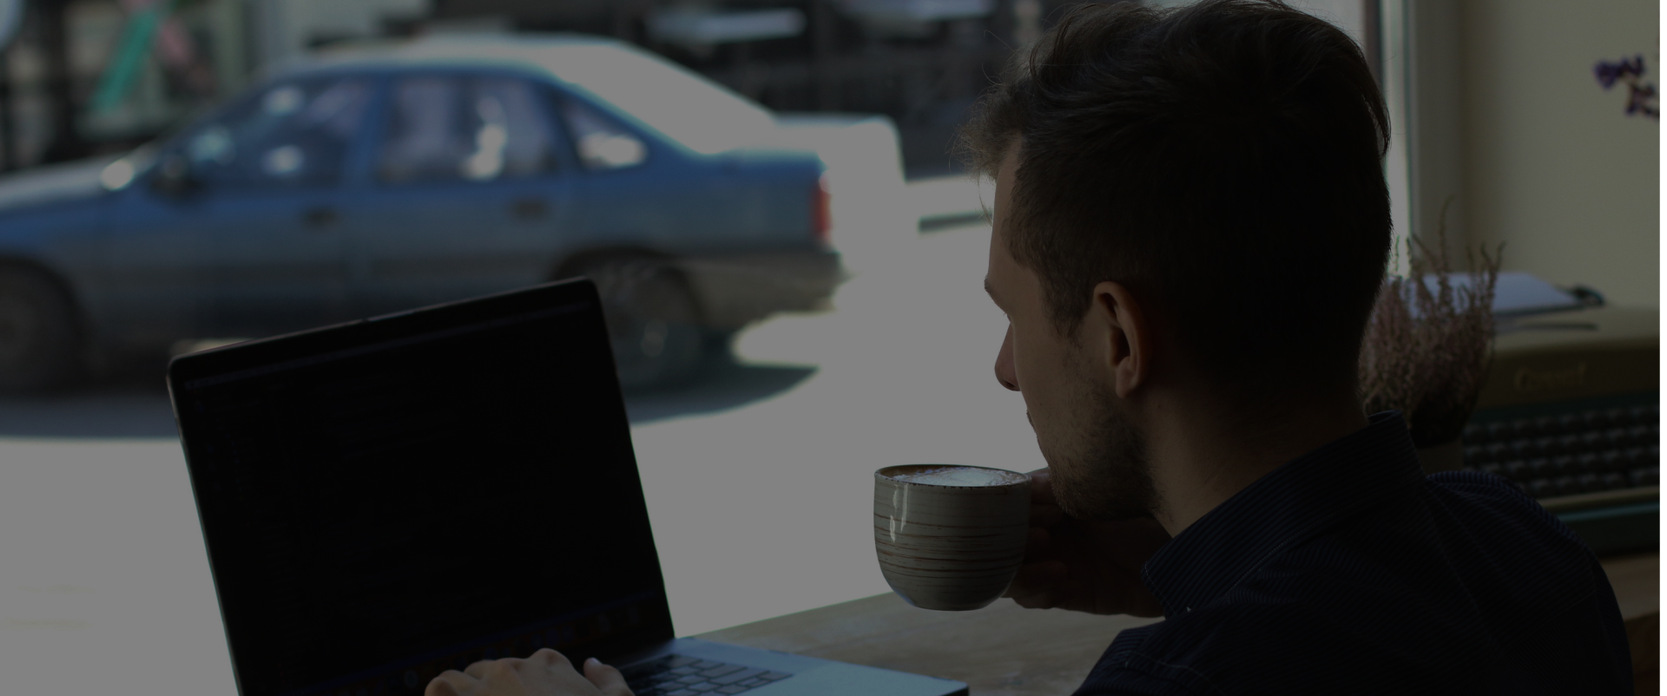
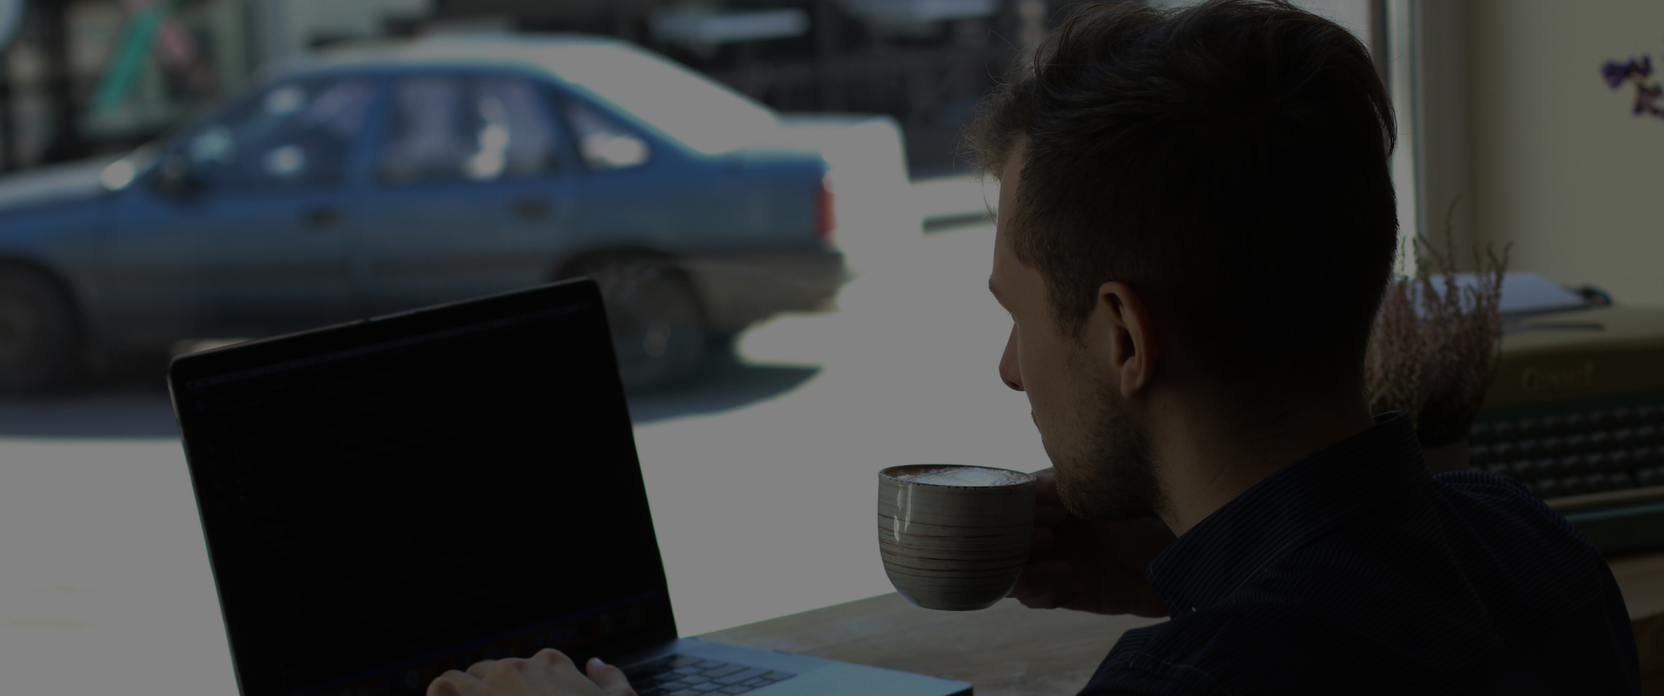
ended up this day with two section

diff --git a/dist/css/style.min.css b/dist/css/style.min.css
@@ -4,4 +4,4 @@
  * Copyright 2011-2019 Twitter, Inc.
  * Licensed under MIT (https://github.com/twbs/bootstrap/blob/master/LICENSE)
  * Forked from Normalize.css, licensed MIT (https://github.com/necolas/normalize.css/blob/master/LICENSE.md)
- */*,::after,::before{box-sizing:border-box}html{font-family:sans-serif;line-height:1.15;-webkit-text-size-adjust:100%;-webkit-tap-highlight-color:rgba(0,0,0,0)}article,aside,figcaption,figure,footer,header,hgroup,main,nav,section{display:block}body{margin:0;font-family:-apple-system,BlinkMacSystemFont,"Segoe UI",Roboto,"Helvetica Neue",Arial,"Noto Sans",sans-serif,"Apple Color Emoji","Segoe UI Emoji","Segoe UI Symbol","Noto Color Emoji";font-size:1rem;font-weight:400;line-height:1.5;color:#212529;text-align:left;background-color:#fff}[tabindex="-1"]:focus{outline:0!important}hr{box-sizing:content-box;height:0;overflow:visible}h1,h2,h3,h4,h5,h6{margin-top:0;margin-bottom:.5rem}p{margin-top:0;margin-bottom:1rem}abbr[data-original-title],abbr[title]{text-decoration:underline;-webkit-text-decoration:underline dotted;text-decoration:underline dotted;cursor:help;border-bottom:0;-webkit-text-decoration-skip-ink:none;text-decoration-skip-ink:none}address{margin-bottom:1rem;font-style:normal;line-height:inherit}dl,ol,ul{margin-top:0;margin-bottom:1rem}ol ol,ol ul,ul ol,ul ul{margin-bottom:0}dt{font-weight:700}dd{margin-bottom:.5rem;margin-left:0}blockquote{margin:0 0 1rem}b,strong{font-weight:bolder}small{font-size:80%}sub,sup{position:relative;font-size:75%;line-height:0;vertical-align:baseline}sub{bottom:-.25em}sup{top:-.5em}a{color:#007bff;text-decoration:none;background-color:rgba(0,0,0,0)}a:hover{color:#0056b3;text-decoration:underline}a:not([href]):not([tabindex]){color:inherit;text-decoration:none}a:not([href]):not([tabindex]):focus,a:not([href]):not([tabindex]):hover{color:inherit;text-decoration:none}a:not([href]):not([tabindex]):focus{outline:0}code,kbd,pre,samp{font-family:SFMono-Regular,Menlo,Monaco,Consolas,"Liberation Mono","Courier New",monospace;font-size:1em}pre{margin-top:0;margin-bottom:1rem;overflow:auto}figure{margin:0 0 1rem}img{vertical-align:middle;border-style:none}svg{overflow:hidden;vertical-align:middle}table{border-collapse:collapse}caption{padding-top:.75rem;padding-bottom:.75rem;color:#6c757d;text-align:left;caption-side:bottom}th{text-align:inherit}label{display:inline-block;margin-bottom:.5rem}button{border-radius:0}button:focus{outline:1px dotted;outline:5px auto -webkit-focus-ring-color}button,input,optgroup,select,textarea{margin:0;font-family:inherit;font-size:inherit;line-height:inherit}button,input{overflow:visible}button,select{text-transform:none}select{word-wrap:normal}[type=button],[type=reset],[type=submit],button{-webkit-appearance:button}[type=button]:not(:disabled),[type=reset]:not(:disabled),[type=submit]:not(:disabled),button:not(:disabled){cursor:pointer}[type=button]::-moz-focus-inner,[type=reset]::-moz-focus-inner,[type=submit]::-moz-focus-inner,button::-moz-focus-inner{padding:0;border-style:none}input[type=checkbox],input[type=radio]{box-sizing:border-box;padding:0}input[type=date],input[type=datetime-local],input[type=month],input[type=time]{-webkit-appearance:listbox}textarea{overflow:auto;resize:vertical}fieldset{min-width:0;padding:0;margin:0;border:0}legend{display:block;width:100%;max-width:100%;padding:0;margin-bottom:.5rem;font-size:1.5rem;line-height:inherit;color:inherit;white-space:normal}progress{vertical-align:baseline}[type=number]::-webkit-inner-spin-button,[type=number]::-webkit-outer-spin-button{height:auto}[type=search]{outline-offset:-2px;-webkit-appearance:none}[type=search]::-webkit-search-decoration{-webkit-appearance:none}::-webkit-file-upload-button{font:inherit;-webkit-appearance:button}output{display:inline-block}summary{display:list-item;cursor:pointer}template{display:none}[hidden]{display:none!important}@font-face{font-family:Poppins;src:url(../fonts/Poppins-Bold.woff2) format("woff2"),url(../fonts/Poppins-Bold.woff) format("woff");font-weight:700;font-style:normal;font-display:swap}@font-face{font-family:Poppins;src:url(../fonts/Poppins-Medium.woff2) format("woff2"),url(../fonts/Poppins-Medium.woff) format("woff");font-weight:500;font-style:normal;font-display:swap}@font-face{font-family:Poppins;src:url(../fonts/Poppins-Light.woff2) format("woff2"),url(../fonts/Poppins-Light.woff) format("woff");font-weight:300;font-style:normal;font-display:swap}@font-face{font-family:Poppins;src:url(../fonts/Poppins-Thin.woff2) format("woff2"),url(../fonts/Poppins-Thin.woff) format("woff");font-weight:100;font-style:normal;font-display:swap}@font-face{font-family:Poppins;src:url(../fonts/Poppins-Regular.woff2) format("woff2"),url(../fonts/Poppins-Regular.woff) format("woff");font-weight:400;font-style:normal;font-display:swap}.container{max-width:1140px;width:100%;margin:0 auto}.hero{color:#fff;min-height:50rem;padding-top:10rem;background:url(../img/main_bg.jpg) center center/cover no-repeat}.hero--wrapper{max-width:770px;width:55%;padding-left:.45em}.hero--title{letter-spacing:.12rem}.hero--descr{width:50%;margin:1.5em 0 2.5em}.hero--btns{max-width:310px;width:100%;display:flex;flex-wrap:wrap;gap:1.2rem;align-items:center;margin-top:1.4em;letter-spacing:.08rem}.hero--link{opacity:.45;font-size:.9rem;transition:all .5s ease}.hero--link:hover{opacity:.8}.title{line-height:3rem}.title-fz32{font-size:2rem}.title-fz24{font-size:1.5rem}.title-fz48{font-size:3rem}.btn{display:block;max-width:135px;width:100%;height:45px;padding:.255em;font-weight:700;font-size:.865rem;text-align:center;border:none;text-decoration:none;text-transform:uppercase;color:#000;background-color:#ffa501;transition:all 150ms ease-in-out}.btn:hover{transform:scale(1.025);letter-spacing:.05rem;box-shadow:4px -4px 0 rgba(255,255,255,.25)}.btn:focus{outline:0}*,a,a::after,a::before,a:focus,a:hover,h1,h2,h3,p{margin:0;padding:0;box-sizing:border-box;font-family:Poppins;text-decoration:none;color:inherit}
+ */*,::after,::before{box-sizing:border-box}html{font-family:sans-serif;line-height:1.15;-webkit-text-size-adjust:100%;-webkit-tap-highlight-color:rgba(0,0,0,0)}article,aside,figcaption,figure,footer,header,hgroup,main,nav,section{display:block}body{margin:0;font-family:-apple-system,BlinkMacSystemFont,"Segoe UI",Roboto,"Helvetica Neue",Arial,"Noto Sans",sans-serif,"Apple Color Emoji","Segoe UI Emoji","Segoe UI Symbol","Noto Color Emoji";font-size:1rem;font-weight:400;line-height:1.5;color:#212529;text-align:left;background-color:#fff}[tabindex="-1"]:focus{outline:0!important}hr{box-sizing:content-box;height:0;overflow:visible}h1,h2,h3,h4,h5,h6{margin-top:0;margin-bottom:.5rem}p{margin-top:0;margin-bottom:1rem}abbr[data-original-title],abbr[title]{text-decoration:underline;-webkit-text-decoration:underline dotted;text-decoration:underline dotted;cursor:help;border-bottom:0;-webkit-text-decoration-skip-ink:none;text-decoration-skip-ink:none}address{margin-bottom:1rem;font-style:normal;line-height:inherit}dl,ol,ul{margin-top:0;margin-bottom:1rem}ol ol,ol ul,ul ol,ul ul{margin-bottom:0}dt{font-weight:700}dd{margin-bottom:.5rem;margin-left:0}blockquote{margin:0 0 1rem}b,strong{font-weight:bolder}small{font-size:80%}sub,sup{position:relative;font-size:75%;line-height:0;vertical-align:baseline}sub{bottom:-.25em}sup{top:-.5em}a{color:#007bff;text-decoration:none;background-color:rgba(0,0,0,0)}a:hover{color:#0056b3;text-decoration:underline}a:not([href]):not([tabindex]){color:inherit;text-decoration:none}a:not([href]):not([tabindex]):focus,a:not([href]):not([tabindex]):hover{color:inherit;text-decoration:none}a:not([href]):not([tabindex]):focus{outline:0}code,kbd,pre,samp{font-family:SFMono-Regular,Menlo,Monaco,Consolas,"Liberation Mono","Courier New",monospace;font-size:1em}pre{margin-top:0;margin-bottom:1rem;overflow:auto}figure{margin:0 0 1rem}img{vertical-align:middle;border-style:none}svg{overflow:hidden;vertical-align:middle}table{border-collapse:collapse}caption{padding-top:.75rem;padding-bottom:.75rem;color:#6c757d;text-align:left;caption-side:bottom}th{text-align:inherit}label{display:inline-block;margin-bottom:.5rem}button{border-radius:0}button:focus{outline:1px dotted;outline:5px auto -webkit-focus-ring-color}button,input,optgroup,select,textarea{margin:0;font-family:inherit;font-size:inherit;line-height:inherit}button,input{overflow:visible}button,select{text-transform:none}select{word-wrap:normal}[type=button],[type=reset],[type=submit],button{-webkit-appearance:button}[type=button]:not(:disabled),[type=reset]:not(:disabled),[type=submit]:not(:disabled),button:not(:disabled){cursor:pointer}[type=button]::-moz-focus-inner,[type=reset]::-moz-focus-inner,[type=submit]::-moz-focus-inner,button::-moz-focus-inner{padding:0;border-style:none}input[type=checkbox],input[type=radio]{box-sizing:border-box;padding:0}input[type=date],input[type=datetime-local],input[type=month],input[type=time]{-webkit-appearance:listbox}textarea{overflow:auto;resize:vertical}fieldset{min-width:0;padding:0;margin:0;border:0}legend{display:block;width:100%;max-width:100%;padding:0;margin-bottom:.5rem;font-size:1.5rem;line-height:inherit;color:inherit;white-space:normal}progress{vertical-align:baseline}[type=number]::-webkit-inner-spin-button,[type=number]::-webkit-outer-spin-button{height:auto}[type=search]{outline-offset:-2px;-webkit-appearance:none}[type=search]::-webkit-search-decoration{-webkit-appearance:none}::-webkit-file-upload-button{font:inherit;-webkit-appearance:button}output{display:inline-block}summary{display:list-item;cursor:pointer}template{display:none}[hidden]{display:none!important}@font-face{font-family:Poppins;src:url(../fonts/Poppins-Bold.woff2) format("woff2"),url(../fonts/Poppins-Bold.woff) format("woff");font-weight:700;font-style:normal;font-display:swap}@font-face{font-family:Poppins;src:url(../fonts/Poppins-Medium.woff2) format("woff2"),url(../fonts/Poppins-Medium.woff) format("woff");font-weight:500;font-style:normal;font-display:swap}@font-face{font-family:Poppins;src:url(../fonts/Poppins-Light.woff2) format("woff2"),url(../fonts/Poppins-Light.woff) format("woff");font-weight:300;font-style:normal;font-display:swap}@font-face{font-family:Poppins;src:url(../fonts/Poppins-Thin.woff2) format("woff2"),url(../fonts/Poppins-Thin.woff) format("woff");font-weight:100;font-style:normal;font-display:swap}@font-face{font-family:Poppins;src:url(../fonts/Poppins-Regular.woff2) format("woff2"),url(../fonts/Poppins-Regular.woff) format("woff");font-weight:400;font-style:normal;font-display:swap}.flex{display:flex;justify-content:space-between;align-items:flex-start}.btn{display:block;max-width:135px;height:45px;padding:.255em 1em;font-weight:700;font-size:.87rem;line-height:.87rem;text-align:center;cursor:pointer;border:none;text-decoration:none;text-transform:uppercase;color:#000;background-color:#ffa501;transition:all 150ms ease-in-out}.btn:hover{transform:scale(1.025);letter-spacing:.03rem;box-shadow:4px -4px 0 rgba(255,255,255,.25)}.btn:focus{outline:0}.container{max-width:1140px;width:100%;margin:0 auto}.divider{width:4rem;height:.125rem;background-color:#ffa501;margin:.625rem 0}.divider-white{background-color:#fff}.title{line-height:3rem;letter-spacing:.08rem}.title-fz16{font-size:1rem;line-height:1rem}.title-fz24{font-size:1.5rem;line-height:1.5rem}.title-fz32{font-size:2rem;line-height:2rem}.title-fz48{font-size:3rem;line-height:3rem}.hero{position:relative;height:100vh;color:#fff;min-height:100vh;padding-top:14rem;background:url(../img/main_bg.jpg) fixed center/cover no-repeat}.hero--wrapper{max-width:770px;width:55%;padding-left:.45em}.hero--descr{width:50%;margin:1.5em 0 2.5em}.hero--btns{max-width:310px;width:100%;display:flex;flex-wrap:wrap;gap:1.2rem;align-items:center;margin-top:1.4em;letter-spacing:.08rem}.hero--link{opacity:.45;font-size:.9rem;transition:all .5s ease}.hero--link:hover{opacity:.8;transform:scale(1.125);letter-spacing:.1rem}.hero--title{margin:.25em 0;padding-left:.12em;position:relative;z-index:1}.hero--title::before{content:"";width:2rem;height:2rem;border-radius:50%;position:absolute;z-index:-1;background-color:#ffa501;width:4rem;height:4rem;left:0;top:-.55rem}.socials{padding-left:.5em;width:2rem;height:100%;max-height:18rem;bottom:2%;display:flex;position:fixed;align-items:center;flex-direction:column;gap:.8rem}.socials--label{color:#fff;-webkit-writing-mode:vertical-lr;-ms-writing-mode:tb-lr;writing-mode:vertical-lr;transform:rotate(180deg)}.socials--divider{margin:30px;transform:rotate(90deg)}.socials a:last-of-type{transform:rotate(-90deg)}.aboutme{height:720px;font-size:14px;line-height:21px;margin-top:6em}.aboutme--img{display:block;max-height:600px;margin-right:4.125em}.aboutme--title{margin-top:7px;padding-left:.5rem;position:relative}.aboutme--title:before{content:"";width:2rem;height:2rem;border-radius:50%;position:absolute;z-index:-1;background-color:#ffa501;top:-47%;left:0}.aboutme--subtitle-big{margin-top:1em}.aboutme--text{min-height:600px}.aboutme--descr{margin-top:.5em;font-size:12px;line-height:18px}.aboutme--descr-big{font-size:14px;line-height:21px}.aboutme--tech-wrapper{margin-top:2.5rem;align-items:flex-start;flex-wrap:wrap;gap:1rem}.aboutme--techblock{width:200px}.aboutme--icon{display:block;width:25px;margin:1.25em 1.25em 0 0;position:relative}.aboutme--icon:before{content:"";width:2rem;height:2rem;border-radius:50%;position:absolute;z-index:-1;background-color:#ffa501;top:0}*,a,a::after,a::before,a:focus,a:hover,h1,h2,h3,p{margin:0;padding:0;box-sizing:border-box;font-family:Poppins;text-decoration:none;color:inherit}img{width:100%;height:100%}

diff --git a/dist/index.html b/dist/index.html
@@ -1,1 +1,1 @@
-<!DOCTYPE html><html lang="ru"><head><meta charset="UTF-8"><meta name="viewport" content="width=device-width,initial-scale=1"><meta http-equiv="X-UA-Compatible" content="ie=edge"><title>Portfolio</title><meta name="title" content="Portfolio"><meta name="description" content="Explore my portfolio and contact me to discuss opportunities"><!-- Open Graph / Facebook --><meta property="og:type" content="website"><meta property="og:url" content="https://metatags.io/"><meta property="og:title" content="Portfolio"><meta property="og:description" content="Explore my portfolio and contact me to discuss opportunities"><meta property="og:image" content="https://metatags.io/assets/meta-tags-16a33a6a8531e519cc0936fbba0ad904e52d35f34a46c97a2c9f6f7dd7d336f2.png"><!-- Twitter --><meta property="twitter:card" content="summary_large_image"><meta property="twitter:url" content="https://metatags.io/"><meta property="twitter:title" content="Portfolio"><meta property="twitter:description" content="Explore my portfolio and contact me to discuss opportunities"><meta property="twitter:image" content="https://metatags.io/assets/meta-tags-16a33a6a8531e519cc0936fbba0ad904e52d35f34a46c97a2c9f6f7dd7d336f2.png"><!-- Favicon  --><link rel="apple-touch-icon" sizes="57x57" href="icons/favicon/apple-icon-57x57.png"><link rel="apple-touch-icon" sizes="60x60" href="icons/favicon/apple-icon-60x60.png"><link rel="apple-touch-icon" sizes="72x72" href="icons/favicon/apple-icon-72x72.png"><link rel="apple-touch-icon" sizes="76x76" href="icons/favicon/apple-icon-76x76.png"><link rel="apple-touch-icon" sizes="114x114" href="icons/favicon/apple-icon-114x114.png"><link rel="apple-touch-icon" sizes="120x120" href="icons/favicon/apple-icon-120x120.png"><link rel="apple-touch-icon" sizes="144x144" href="icons/favicon/apple-icon-144x144.png"><link rel="apple-touch-icon" sizes="152x152" href="icons/favicon/apple-icon-152x152.png"><link rel="apple-touch-icon" sizes="180x180" href="icons/favicon/apple-icon-180x180.png"><link rel="icon" type="image/png" sizes="192x192" href="icons/favicon/android-icon-192x192.png"><link rel="icon" type="image/png" sizes="32x32" href="icons/favicon/favicon-32x32.png"><link rel="icon" type="image/png" sizes="96x96" href="icons/favicon/favicon-96x96.png"><link rel="icon" type="image/png" sizes="16x16" href="icons/favicon/favicon-16x16.png"><link rel="manifest" href="/manifest.json"><meta name="msapplication-TileColor" content="#ffffff"><meta name="msapplication-TileImage" content="/ms-icon-144x144.png"><meta name="theme-color" content="#ffffff"><link rel="stylesheet" href="css/style.min.css"><script defer="defer" src="js/script.js"></script></head><body><section class="hero"><div class="container"><div class="hero--wrapper"><div class="hero--text"><h1 class="title hero--title title-fz48">Hi, My name is Anton</h1><h2 class="title hero--title title-fz32">and it is my portfolio</h2><p class="hero--descr">I'm excited to showcase my work and provide you with a way to reach out to me for any inquiries or opportunities. Browse my portfolio and let's connect.</p></div><div class="hero--btns"><button class="btn hero--btn"><a href="#" class="hero--btnLink">Work gallery</a></button> <a href="#" class="hero--link">about me</a></div></div></div></section></body></html>
+<!DOCTYPE html><html lang="ru"><head><meta charset="UTF-8"><meta name="viewport" content="width=device-width,initial-scale=1"><meta http-equiv="X-UA-Compatible" content="ie=edge"><title>Portfolio</title><meta name="title" content="Portfolio"><meta name="description" content="Explore my portfolio and contact me to discuss opportunities"><!-- Open Graph / Facebook --><meta property="og:type" content="website"><meta property="og:url" content="https://metatags.io/"><meta property="og:title" content="Portfolio"><meta property="og:description" content="Explore my portfolio and contact me to discuss opportunities"><meta property="og:image" content="https://metatags.io/assets/meta-tags-16a33a6a8531e519cc0936fbba0ad904e52d35f34a46c97a2c9f6f7dd7d336f2.png"><!-- Twitter --><meta property="twitter:card" content="summary_large_image"><meta property="twitter:url" content="https://metatags.io/"><meta property="twitter:title" content="Portfolio"><meta property="twitter:description" content="Explore my portfolio and contact me to discuss opportunities"><meta property="twitter:image" content="https://metatags.io/assets/meta-tags-16a33a6a8531e519cc0936fbba0ad904e52d35f34a46c97a2c9f6f7dd7d336f2.png"><!-- Favicon  --><link rel="apple-touch-icon" sizes="57x57" href="icons/favicon/apple-icon-57x57.png"><link rel="apple-touch-icon" sizes="60x60" href="icons/favicon/apple-icon-60x60.png"><link rel="apple-touch-icon" sizes="72x72" href="icons/favicon/apple-icon-72x72.png"><link rel="apple-touch-icon" sizes="76x76" href="icons/favicon/apple-icon-76x76.png"><link rel="apple-touch-icon" sizes="114x114" href="icons/favicon/apple-icon-114x114.png"><link rel="apple-touch-icon" sizes="120x120" href="icons/favicon/apple-icon-120x120.png"><link rel="apple-touch-icon" sizes="144x144" href="icons/favicon/apple-icon-144x144.png"><link rel="apple-touch-icon" sizes="152x152" href="icons/favicon/apple-icon-152x152.png"><link rel="apple-touch-icon" sizes="180x180" href="icons/favicon/apple-icon-180x180.png"><link rel="icon" type="image/png" sizes="192x192" href="icons/favicon/android-icon-192x192.png"><link rel="icon" type="image/png" sizes="32x32" href="icons/favicon/favicon-32x32.png"><link rel="icon" type="image/png" sizes="96x96" href="icons/favicon/favicon-96x96.png"><link rel="icon" type="image/png" sizes="16x16" href="icons/favicon/favicon-16x16.png"><link rel="manifest" href="/manifest.json"><meta name="msapplication-TileColor" content="#ffffff"><meta name="msapplication-TileImage" content="/ms-icon-144x144.png"><meta name="theme-color" content="#ffffff"><link rel="stylesheet" href="css/style.min.css"><script defer="defer" src="js/script.js"></script></head><body><section class="hero"><div class="container"><div class="hero--wrapper"><div class="hero--text"><h1 class="title hero--title title-fz48">Hi, my name is Anton</h1><h2 class="title hero--title-small title-fz32">and it is my portfolio</h2><p class="hero--descr">I'm excited to showcase my work and provide you with a way to reach out to me for any inquiries or opportunities. Browse my portfolio and let's connect.</p></div><div class="hero--btns"><button class="btn hero--btn"><a href="#" class="hero--btnLink">Work gallery</a></button> <a href="#" class="hero--link">about me</a></div></div></div></section><section class="aboutme"><div class="container flex"><img src="./img/main_photo.jpg" alt="my picture" class="aboutme--img"><div class="aboutme--text"><div class="aboutme--header"><h2 id="about" class="aboutme--title title-fz16">About me</h2><h3 class="aboutme--subtitle-big title-fz32">Short description</h3><div class="aboutme--divider divider"></div><div class="aboutme--descr-big">As a promising web development, I'm excited to learn and grow in this field. I'm passionate about creating beautiful websites and eager to learn new skills and technologies to achieve that goal. I'm determined each project, I'm gaining confidence, critical thinking, and problem-solving skills. I'm optimistic about the potential of this field for creativity, innovation, and personal development.</div></div><div class="aboutme--tech-wrapper flex"><div class="aboutme--tech flex"><img src="./icons/about_me/web_development.svg" alt="web development" class="aboutme--icon"><div class="aboutme--techblock"><h3 class="aboutme--subtitle">Web development</h3><p class="aboutme--descr">One of the most rewarding aspects of web development is the ability to see your work come to life. Every website is a tangible representation of skills and creativity.</p></div></div><div class="aboutme--tech flex"><img src="./icons/about_me/mobile_dev.svg" alt="mobile development" class="aboutme--icon"><div class="aboutme--techblock"><h3 class="aboutme--subtitle">Mobile development</h3><p class="aboutme--descr">Creating apps for smartphones and tablets that are visually appealing and user-friendly. Wich have the potential to reach a global audience.</p></div></div><div class="aboutme--tech flex"><img src="./icons/about_me/design.svg" alt="ui ux design" class="aboutme--icon"><div class="aboutme--techblock"><h3 class="aboutme--subtitle">UI/UX Design</h3><p class="aboutme--descr">UI/UX design is a crucial aspect of software and app development. It involves designing and creating the interface that users will interact.</p></div></div></div></div></div></section><aside class="socials"><a href="https://github.com/Odenari" target="_blank" class="socials--link"><img src="./icons/social/github.svg" alt="github" class="socials--icon"></a><a href="https://www.instagram.com/ordinary_grey_one/" target="_blank" class="socials--link"><img src="./icons/social/instagram.svg" alt="instagram" class="socials--icon"></a><a href="https://www.facebook.com/profile.php?id=100074051017916" target="_blank" class="socials--link"><img src="./icons/social/facebook.svg" alt="facebook" class="socials--icon"></a><a href="https://discordapp.com/users/380778704915136514" target="_blank" class="socials--link"><img src="./icons/social/discord-icon-svgrepo-com.svg" alt="discord" class="socials--icon"></a><div class="socials--divider divider divider-white"></div><div class="socials--label">Social</div></aside></body></html>

diff --git a/src/index.html b/src/index.html
@@ -53,8 +53,8 @@
         <div class="container">
             <div class=hero--wrapper>
                 <div class="hero--text">
-                    <h1 class="title hero--title title-fz48">Hi, My name is Anton</h1>
-                    <h2 class="title hero--title title-fz32">and it is my portfolio</h2>
+                    <h1 class="title hero--title title-fz48 ">Hi, my name is Anton</h1>
+                    <h2 class="title hero--title-small title-fz32">and it is my portfolio</h2>
                     <p class="hero--descr">
                         I'm excited to showcase my work and provide you with a
                         way to reach out to me for any inquiries or
@@ -69,6 +69,72 @@
             </div>
         </div>
     </section>
+
+    <section class="aboutme">
+        <div class="container flex">
+            <img src="./img/main_photo.jpg" alt="my picture" class="aboutme--img">
+            <div class="aboutme--text">
+                <div class="aboutme--header">
+                    <h2 id="about" class="aboutme--title title-fz16">About me</h2>
+                    <h3 class="aboutme--subtitle-big title-fz32">Short description</h3>
+                    <div class="aboutme--divider divider"></div>
+                    <div class="aboutme--descr-big">
+                        As a promising web development, I'm excited to learn and grow in this field. I'm passionate
+                        about creating beautiful websites and eager to learn new skills and technologies to achieve that
+                        goal. I'm determined each project, I'm gaining confidence, critical thinking, and
+                        problem-solving skills. I'm optimistic about the potential of this field for creativity,
+                        innovation, and personal development.
+                    </div>
+                </div>
+                <div class="aboutme--tech-wrapper flex">
+                    <div class="aboutme--tech flex">
+                        <img src="./icons/about_me/web_development.svg" alt="web development" class="aboutme--icon">
+                        <div class="aboutme--techblock">
+                            <h3 class="aboutme--subtitle">Web development</h3>
+                            <p class="aboutme--descr">
+                                One of the most rewarding aspects of web development is the ability to
+                                see
+                                your work come to life. Every website is a tangible representation of skills and
+                                creativity.
+                            </p>
+                        </div>
+                    </div>
+                    <div class="aboutme--tech flex">
+                        <img src="./icons/about_me/mobile_dev.svg" alt="mobile development" class="aboutme--icon">
+                        <div class="aboutme--techblock">
+                            <h3 class="aboutme--subtitle">Mobile development</h3>
+                            <p class="aboutme--descr">
+                                Creating apps for smartphones and tablets that are visually appealing
+                                and user-friendly. Wich have the potential to reach a global audience.
+                            </p>
+                        </div>
+                    </div>
+                    <div class="aboutme--tech flex">
+                        <img src="./icons/about_me/design.svg" alt="ui ux design" class="aboutme--icon">
+                        <div class="aboutme--techblock">
+                            <h3 class="aboutme--subtitle">UI/UX Design</h3>
+                            <p class="aboutme--descr">
+                                UI/UX design is a crucial aspect of software and app development. It involves designing
+                                and creating the interface that users will interact.
+                        </div>
+                    </div>
+                </div>
+            </div>
+        </div>
+    </section>
+
+    <aside class="socials">
+        <a href="https://github.com/Odenari" target="_blank" class="socials--link"><img src="./icons/social/github.svg"
+                alt="github" class="socials--icon"></a>
+        <a href="https://www.instagram.com/ordinary_grey_one/" target="_blank" class="socials--link"><img
+                src="./icons/social/instagram.svg" alt="instagram" class="socials--icon"></a>
+        <a href="https://www.facebook.com/profile.php?id=100074051017916" target="_blank" class="socials--link"><img
+                src="./icons/social/facebook.svg" alt="facebook" class="socials--icon"></a>
+        <a href="https://discordapp.com/users/380778704915136514" target="_blank" class="socials--link"><img
+                src="./icons/social/discord-icon-svgrepo-com.svg" alt="discord" class="socials--icon"></a>
+        <div class="socials--divider divider divider-white"></div>
+        <div class="socials--label">Social</div>
+    </aside>
 </body>
 
 </html>

diff --git a/src/sass/blocks/_aboutme.scss b/src/sass/blocks/_aboutme.scss
@@ -1,0 +1,58 @@
+.aboutme {
+    height: 720px;
+    // height: 100%;
+    font-size: 14px;
+    line-height: 21px;
+    margin-top: 6em;
+    &--img {
+        display: block;
+        max-height: 600px;
+        margin-right: 4.125em;
+    }
+    &--title {
+        margin-top: 7px;
+        padding-left: 0.5rem;
+        position: relative;
+
+        &:before {
+            @include before_circle;
+            top: -47%;
+            left: 0;
+        }
+    }
+    &--subtitle-big {
+        margin-top: 1em;
+    }
+    &--text {
+        min-height: 600px;
+    }
+    &--descr {
+        margin-top: 0.5em;
+        font-size: 12px;
+        line-height: 18px;
+        &-big {
+            font-size: 14px;
+            line-height: 21px;
+        }
+    }
+    &--tech-wrapper {
+        margin-top: 2.5rem;
+        align-items: flex-start;
+        flex-wrap: wrap;
+        gap: 1rem;
+    }
+
+    &--techblock {
+        width: 200px;
+    }
+    &--icon {
+        display: block;
+        width: 25px;
+        margin: 1.25em 1.25em 0 0;
+        position: relative;
+        &:before {
+            @include before_circle;
+            top: 0;
+        }
+    }
+}

diff --git a/src/sass/blocks/_hero.scss b/src/sass/blocks/_hero.scss
@@ -1,15 +1,14 @@
 .hero {
-    color: $text-white-color;
-    min-height: 50rem;
-    padding-top: 10rem;
-    background: url('../img/main_bg.jpg') center center/cover no-repeat;
+    position: relative;
+    height: 100vh;
+    color: $text-color-alt;
+    min-height: 100vh;
+    padding-top: 14rem;
+    background: url('../img/main_bg.jpg') fixed center/cover no-repeat;
     &--wrapper {
         max-width: 770px;
         width: 55%;
         padding-left: 0.45em;
-    }
-    &--title {
-        letter-spacing: 0.12rem;
     }
     &--descr {
         width: 50%;
@@ -31,6 +30,21 @@
         transition: all 0.5s ease;
         &:hover {
             opacity: 0.8;
+            transform: scale(1.125);
+            letter-spacing: 0.1rem;
+        }
+    }
+    &--title {
+        margin: 0.25em 0;
+        padding-left: 0.12em;
+        position: relative;
+        z-index: 1;
+        &::before {
+            @include before_circle;
+            width: 4rem;
+            height: 4rem;
+            left: 0;
+            top: -0.55rem;
         }
     }
 }

diff --git a/src/sass/blocks/_btns.scss b/src/sass/blocks/_btns.scss
@@ -1,21 +1,22 @@
 .btn {
     display: block;
     max-width: 135px;
-    width: 100%;
     height: 45px;
-    padding: 0.255em;
+    padding: 0.255em 1em;
     font-weight: 700;
-    font-size: 0.865rem;
+    font-size: 0.87rem;
+    line-height: 0.87rem;
     text-align: center;
+    cursor: pointer;
     border: none;
     text-decoration: none;
     text-transform: uppercase;
-    color: $text-black-color;
+    color: $text-color-main;
     background-color: $main-color;
     transition: all 150ms ease-in-out;
     &:hover {
         transform: scale(1.025);
-        letter-spacing: 0.05rem;
+        letter-spacing: 0.03rem;
         box-shadow: 4px -4px 0 rgba(255, 255, 255, 0.25);
     }
     &:focus {

diff --git a/src/sass/style.scss b/src/sass/style.scss
@@ -1,10 +1,15 @@
 @import 'libs/bootstrap-reboot.min';
 @import 'base/fonts';
+@import 'base/mixins';
+@import 'base/flex';
 @import 'base/variables';
-@import 'blocks/container';
-@import 'blocks/hero';
-@import 'blocks/title';
 @import 'blocks/btns';
+@import 'blocks/container';
+@import 'blocks/divider';
+@import 'blocks/title';
+@import 'blocks/hero';
+@import 'blocks/socials';
+@import 'blocks/aboutme';
 
 *,
 h1,
@@ -22,4 +27,9 @@ a:focus {
     font-family: 'Poppins';
     text-decoration: none;
     color: inherit;
+}
+
+img {
+    width: 100%;
+    height: 100%;
 }

diff --git a/src/sass/blocks/_socials.scss b/src/sass/blocks/_socials.scss
@@ -1,0 +1,24 @@
+.socials {
+    padding-left: 0.5em;
+    width: 2rem;
+    height: 100%;
+    max-height: 18rem;
+    bottom: 2%;
+    display: flex;
+    position: fixed;
+    align-items: center;
+    flex-direction: column;
+    gap: 0.8rem;
+    &--label {
+        color: $text-color-alt;
+        writing-mode: vertical-lr;
+        transform: rotate(180deg);
+    }
+    &--divider {
+        margin: 30px;
+        transform: rotate(90deg);
+    }
+    & a:last-of-type {
+        transform: rotate(-90deg);
+    }
+}

diff --git a/src/sass/blocks/_title.scss b/src/sass/blocks/_title.scss
@@ -1,12 +1,20 @@
 .title {
     line-height: 3rem;
-    &-fz32 {
-        font-size: 2rem;
+    letter-spacing: 0.08rem;
+    &-fz16 {
+        font-size: 1rem;
+        line-height: 1rem;
     }
     &-fz24 {
         font-size: 1.5rem;
+        line-height: 1.5rem;
+    }
+    &-fz32 {
+        font-size: 2rem;
+        line-height: 2rem;
     }
     &-fz48 {
         font-size: 3rem;
+        line-height: 3rem;
     }
 }

diff --git a/src/sass/base/_mixins.scss b/src/sass/base/_mixins.scss
@@ -1,0 +1,9 @@
+@mixin before_circle {
+    content: '';
+    width: 2rem;
+    height: 2rem;
+    border-radius: 50%;
+    position: absolute;
+    z-index: -1;
+    background-color: $main-color;
+}

diff --git a/src/sass/blocks/_divider.scss b/src/sass/blocks/_divider.scss
@@ -1,0 +1,9 @@
+.divider {
+    width: 4rem;
+    height: 0.125rem;
+    background-color: $main-color;
+    margin: 0.625rem 0;
+    &-white {
+        background-color: #ffffff;
+    }
+}

diff --git a/src/sass/base/_variables.scss b/src/sass/base/_variables.scss
@@ -1,3 +1,3 @@
 $main-color: #ffa501;
-$text-white-color: #ffffff;
-$text-black-color: #000000;
+$text-color-alt: #ffffff;
+$text-color-main: #000000;
